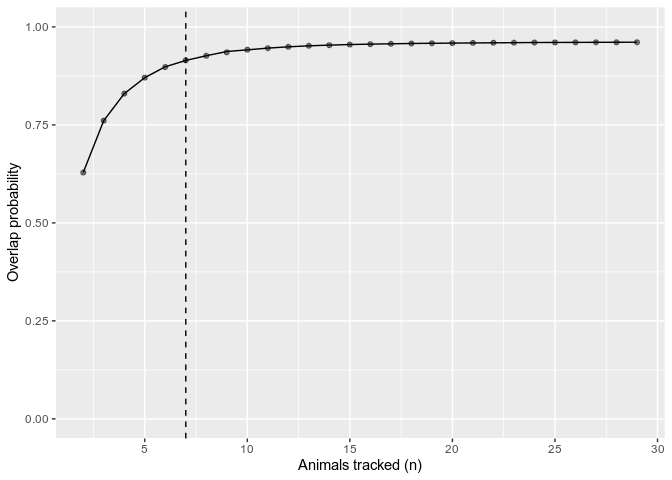
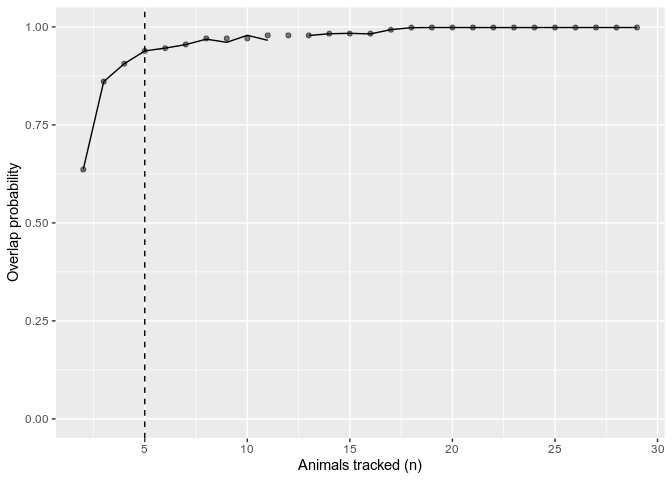
Ver 2.0.1.0010 - update #3

Changed region(s): [[0.1562, 0.0312, 0.9688, 0.1875], [0.125, 0.1562, 0.1875, 0.3438], [0.0938, 0.3438, 0.125, 0.375]]

diff --git a/README.md b/README.md
@@ -40,9 +40,7 @@ There are three main filtering functions.
 -   *ddfilter* filters locations with high error.  
 -   *depthfilter* filters locations by water depth.
 
-<p>
- 
-</p>
+<!-- <p>&nbsp;</p> -->
 
 ##### 1-1. Load tracking data
 
@@ -50,19 +48,11 @@ There are three main filtering functions.
 data(turtle)
 ```
 
-<p>
- 
-</p>
-
 ##### 1-2. Remove temporal and spatial duplicates
 
 ``` r
 turtle.dup <- dupfilter(turtle)
 ```
-
-<p>
- 
-</p>
 
 ##### 1-3. Remove biologically unrealistic fixes
 
@@ -76,10 +66,6 @@ VLP <- vmaxlp(turtle.dup)
 ## Run ddfilter
 turtle.dd <- ddfilter(turtle.dup, vmax=V, vmaxlp=VLP)
 ```
-
-<p>
- 
-</p>
 
 ##### 1-4. Plot data
 
@@ -115,25 +101,23 @@ turtle.dd <- ddfilter(turtle.dup, vmax=V, vmaxlp=VLP)
 
 ### 2. Assessing sample sizes (probability-based approach)
 
-<p>
- 
-</p>
-
 ##### 2-1. Calculate utilisation distributions (UDs) of flatback turtles (n = 29).
 
 The UDs can be estimated using any R package or other computer software
 but the UDs must be converted to a matrix or a list of RasterLayer
-objects. \#\#\#\#\# 2-2. Input UDs The input data can be either a matrix
-or a list of RasterLayer objects. Each row of the matrix or each
-RasterLayer object contains the probability distribution of an animal.
-The function assumes that each column of a matrix is associated with a
-unique geographical location, therefore it is critical that the grid
-size and geographical extent are consistent across UDs. In this example,
-the grid size was 1km and the geographical extent was 1901789, 1972789,
--2750915, -2653915 (EPSG:3577) across all 29 layers.
-<p>
- 
-</p>
+objects.
+
+##### 2-2. Input UDs
+
+The input data can be either a matrix or a list of RasterLayer objects.
+Each row of the matrix or each RasterLayer object contains the
+probability distribution of an animal. The function assumes that each
+column of a matrix is associated with a unique geographical location,
+therefore it is critical that the grid size and geographical extent are
+consistent across UDs. In this example, the grid size was 1km and the
+geographical extent was 1901789, 1972789, -2750915, -2653915 (EPSG:3577)
+across all 29 layers.
+
 <details>
 
 <summary>Click to show an example code of UD estimation.</summary>
@@ -162,7 +146,7 @@ xyz <- cbind(xy.df, z)
 grid_spdf <- SpatialPixelsDataFrame(xy.coords, xyz)
 
 ## UD per turtle
-ud.raster <- list()
+ud_raster <- list()
 for(i in 1:length(flatback_id)){
   
   ## ID
@@ -183,15 +167,12 @@ for(i in 1:length(flatback_id)){
   ## Estimate the UD
   ud <- BRB(data.ltraj, D=dp, Tmax=TM, Lmin=LM, hmin=HM, grid=grid_spdf, type="UD")
   
-  ## Convert SpatialPixelsDataFrame to raster
-  ud.raster[[i]] <- raster(ud)
+  ## Convert the UD to raster
+  ud_raster[[i]] <- raster(ud)
 }
 ```
 
 </details>
-<p>
- 
-</p>
 
 ``` r
 # A matrix
@@ -201,10 +182,6 @@ data(ud_matrix)
 data(ud_raster)
 ```
 
-<p>
- 
-</p>
-
 ##### 2-2. Calculate overlap probability from 6000 random permutation (\~sample size x 200)
 
 It will take some time to run this code depending on the number of
@@ -213,12 +190,8 @@ iterations and the machine specs. The runtime was about 15 minutes for
 RAM).
 
 ``` r
-overlap <- boot_overlap(ud_matrix, R = 6000, method = "PHR")
+overlap <- boot_overlap(ud_matrix, R = 10, method = "PHR")
 ```
-
-<p>
- 
-</p>
 
 ##### 2-3. Find the minimum sample size required to estimate the general distribution
 
@@ -230,10 +203,6 @@ size required to represent the general distribution of the group.
 ``` r
 a <- asymptote(overlap, upper.degree = 10)
 ```
-
-<p>
- 
-</p>
 
 ##### 2-4. Plot the mean probability and rational function fit relative to the sample sizes (n).
 
